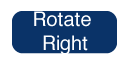
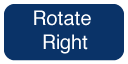
Resized images again and change default size of program

diff --git a/client/components/game/game.controller.js b/client/components/game/game.controller.js
@@ -108,10 +108,10 @@
 			var height;
 			var limit = programService.getLimit();
 			if (limit <= 9) {
-				height = limit * 128;
+				height = limit * 64;
 				$('.program-inner').css('height', height);
 			} else {
-				height = 9 * 128;
+				height = 9 * 64;
 				$('.program-inner').css('height', height);
 			}
 
